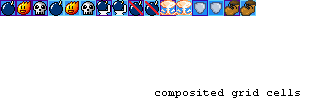
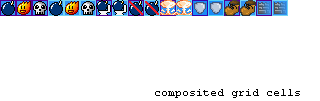
- Fixed a minor bug regarding the maximum range bonus. (storedBombRange didn't increase when Bonus Range was picked while under the influence of Max Range Bonus) - ticket #5 - Implemented a walking trough walls bonus. To be more precise it allows a player to walk trough crates, leaving other obstacl
git-svn-id: https://ophelia.cs.put.poznan.pl/svn/prv-jdyna@25 7041bab8-1725-11de-84ca-a9d339809633

Changed region(s): [[0.7812, 0.0, 0.9062, 0.1782]]

diff --git a/src/java/org/jdyna/Game.java b/src/java/org/jdyna/Game.java
@@ -113,7 +113,7 @@ public final class Game implements IGameEventListenerHolder
             CellType.CELL_BONUS_BOMB, CellType.CELL_BONUS_RANGE,
             CellType.CELL_BONUS_DIARRHEA, CellType.CELL_BONUS_NO_BOMBS,
             CellType.CELL_BONUS_MAXRANGE, CellType.CELL_BONUS_IMMORTALITY,
-            CellType.CELL_BONUS_SPEED);
+            CellType.CELL_BONUS_SPEED, CellType.CELL_BONUS_CRATE_WALKING);
 
     /**
      * Reusable array of events dispatched in each frame.
@@ -712,8 +712,12 @@ public final class Game implements IGameEventListenerHolder
 
         if (c.type == CellType.CELL_BONUS_RANGE)
         {
-            pi.bombRange++;
-            bonusCollected = true;
+        	if ((pi.maxRangeEndsAtFrame > frame) && (pi.bombRange == Integer.MAX_VALUE)) 
+        	{
+        		pi.storedBombRange++;
+        	}
+        	else pi.bombRange++;
+        	bonusCollected = true;
         }
         
         if (c.type == CellType.CELL_BONUS_DIARRHEA)
@@ -724,7 +728,7 @@ public final class Game implements IGameEventListenerHolder
 
         if (c.type == CellType.CELL_BONUS_MAXRANGE)
         {
-        	pi.temporaryBombRange = pi.bombRange;
+        	pi.storedBombRange = pi.bombRange;
         	pi.bombRange = Integer.MAX_VALUE;
         	pi.maxRangeEndsAtFrame = frame + Globals.DEFAULT_MAXRANGE_FRAMES;
         	bonusCollected = true;
@@ -754,6 +758,13 @@ public final class Game implements IGameEventListenerHolder
             bonusCollected = true;
         }
         
+        if (c.type == CellType.CELL_BONUS_CRATE_WALKING)
+        {
+        	pi.crateWalkingEndsAtFrame = frame + Globals.DEFAULT_CRATE_WALKING_FRAMES;
+        	pi.canWalkCrates = true;
+        	bonusCollected = true;
+        }
+        
         if (bonusCollected)
         {
             dispatchPlayerStatuses = true;
@@ -773,8 +784,8 @@ public final class Game implements IGameEventListenerHolder
 		}
 		if ((pi.maxRangeEndsAtFrame < frame) && (pi.bombRange == Integer.MAX_VALUE))
 		{
-			pi.bombRange = pi.temporaryBombRange;
-			pi.temporaryBombRange = Integer.MIN_VALUE;
+			pi.bombRange = pi.storedBombRange;
+			pi.storedBombRange = Integer.MIN_VALUE;
 		}
 		
         if ((pi.speedEndsAtFrame <= frame) && (pi.speedModifier != 1.0))
@@ -782,6 +793,16 @@ public final class Game implements IGameEventListenerHolder
             pi.speedModifier = 1.0;
             pi.speed = new Point((int) (pi.speedModifier * Globals.DEFAULT_PLAYER_SPEED),
                 (int) (pi.speedModifier * Globals.DEFAULT_PLAYER_SPEED));
+        }
+        if ((pi.crateWalkingEndsAtFrame < frame) && (pi.canWalkCrates))
+        {
+        	pi.canWalkCrates = false;
+        	final Point xy = boardData.pixelToGrid(pi.location);
+        	if (!canWalkOn(pi, xy))
+        	{
+        		pi.kill();
+        		events.add(new SoundEffectEvent(SoundEffect.DYING, 1));
+        	}
         }
 	}
 
@@ -943,7 +964,9 @@ public final class Game implements IGameEventListenerHolder
          * Players in immortality mode can walk over bombs, but not anything else.
          */
         CellType t = board.cellAt(txy).type;
-        return t.isWalkable() || (pi.isImmortal() && t == CellType.CELL_BOMB);
+        return t.isWalkable() 
+        || (pi.isImmortal() && t == CellType.CELL_BOMB) 
+        || (pi.canWalkCrates && ((t == CellType.CELL_CRATE) ||(t == CellType.CELL_CRATE_OUT)));
     }
 
     /**

diff --git a/src/java/org/jdyna/PlayerInfo.java b/src/java/org/jdyna/PlayerInfo.java
@@ -60,9 +60,9 @@ final class PlayerInfo implements IPlayerSprite
     int bombRange = Globals.DEFAULT_BOMB_RANGE;
     
     /**
-     * Saves the previous value which is restored when bonus runs out.
+     * Stores the actual bomb range when player is under the influence of max range bonus.
      */
-    int temporaryBombRange = Integer.MIN_VALUE;
+    int storedBombRange = Integer.MIN_VALUE;
     
     /**
      * Frame number after which diarrhea bonus ends for the player.
@@ -79,6 +79,16 @@ final class PlayerInfo implements IPlayerSprite
      */
     int speedEndsAtFrame = Integer.MIN_VALUE;
 
+    /**
+     * Frames number the player is under Wall Walking Bonus influence
+     */
+    int crateWalkingEndsAtFrame = Integer.MIN_VALUE;
+    
+    /**
+     * Indicates whether or not player can walk trough crates
+     */
+    public boolean canWalkCrates = false; 
+    
     /**
      * This field stores the most recent frame number when a bomb was dropped. The purpose of this
      * is to avoid dropping two bombs when crossing the line between two grid cells.

diff --git a/src/java/org/jdyna/CellType.java b/src/java/org/jdyna/CellType.java
@@ -42,7 +42,8 @@ public enum CellType
     CELL_BONUS_IMMORTALITY('i'),
     CELL_BONUS_MAXRANGE('m'),
     CELL_BONUS_NO_BOMBS('n'),
-    CELL_BONUS_SPEED('s');
+    CELL_BONUS_SPEED('s'),
+    CELL_BONUS_CRATE_WALKING('c');
 
     /**
      * Character code for the cell (16 bits).
@@ -77,7 +78,7 @@ public enum CellType
      */
     public boolean isWalkable()
     {
-        return WALKABLES.contains(this);
+    	return WALKABLES.contains(this);
     }
     
     /**
@@ -178,7 +179,7 @@ public enum CellType
         WALKABLES = EnumSet.of(CellType.CELL_EMPTY, CellType.CELL_BONUS_BOMB,
             CellType.CELL_BONUS_RANGE, CellType.CELL_BONUS_DIARRHEA, CellType.CELL_BONUS_NO_BOMBS,
             CellType.CELL_BONUS_MAXRANGE, CellType.CELL_BONUS_IMMORTALITY,
-            CellType.CELL_BONUS_SPEED);
+            CellType.CELL_BONUS_SPEED, CellType.CELL_BONUS_CRATE_WALKING);
         WALKABLES.addAll(EXPLOSION_CELLS);
     }
 

diff --git a/src/java/org/jdyna/view/resources/ImagesFactory.java b/src/java/org/jdyna/view/resources/ImagesFactory.java
@@ -114,16 +114,19 @@ public final class ImagesFactory
             	{6, 0}, {7, 0} })
             ),
             create(CellType.CELL_BONUS_IMMORTALITY, 4, sb2.tile(new int [][] {
-                	{12, 0}, {13, 0} })
-                ),
+              	{12, 0}, {13, 0} })
+            ),
             create(CellType.CELL_BONUS_NO_BOMBS, 4, sb2.tile(new int [][] {
-                	{8, 0}, {9, 0} })
-                ),
+               	{8, 0}, {9, 0} })
+            ),
             create(CellType.CELL_BONUS_MAXRANGE, 4, sb2.tile(new int [][] {
                 {10, 0}, {11, 0} })
             ),
             create(CellType.CELL_BONUS_SPEED, 4, sb2.tile(new int [][] {
                 {14, 0}, {15, 0} })
+            ),
+            create(CellType.CELL_BONUS_CRATE_WALKING, 4, sb2.tile(new int [][] {
+                {16, 0}, {17, 0} })
             ),
         });
 

diff --git a/src/java/org/jdyna/Globals.java b/src/java/org/jdyna/Globals.java
@@ -86,7 +86,7 @@ public final class Globals
      * The default is 15 seconds. Assign to a very large value to effectively prevent
      * bonuses from showing up.
      */
-    public static final int DEFAULT_BONUS_PERIOD = 15 * DEFAULT_FRAME_RATE;
+    public static final int DEFAULT_BONUS_PERIOD = 12 * DEFAULT_FRAME_RATE;
 
     /**
      * Default period for adding crates at random positions on the board.
@@ -135,6 +135,7 @@ public final class Globals
      */
     public static final int DEFAULT_SPEED_FRAMES = 10 * DEFAULT_FRAME_RATE;
         
+    public static final int DEFAULT_CRATE_WALKING_FRAMES = 10* DEFAULT_FRAME_RATE;
     /*
      * 
      */
